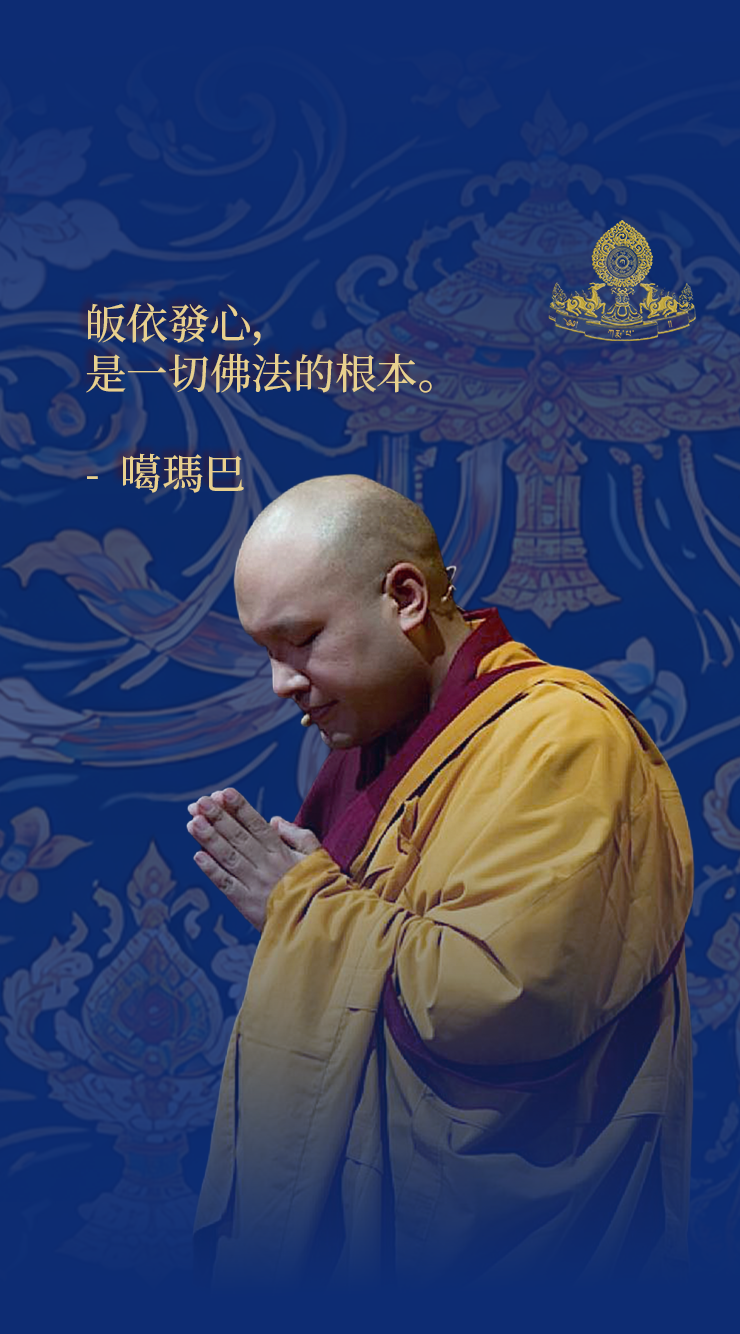
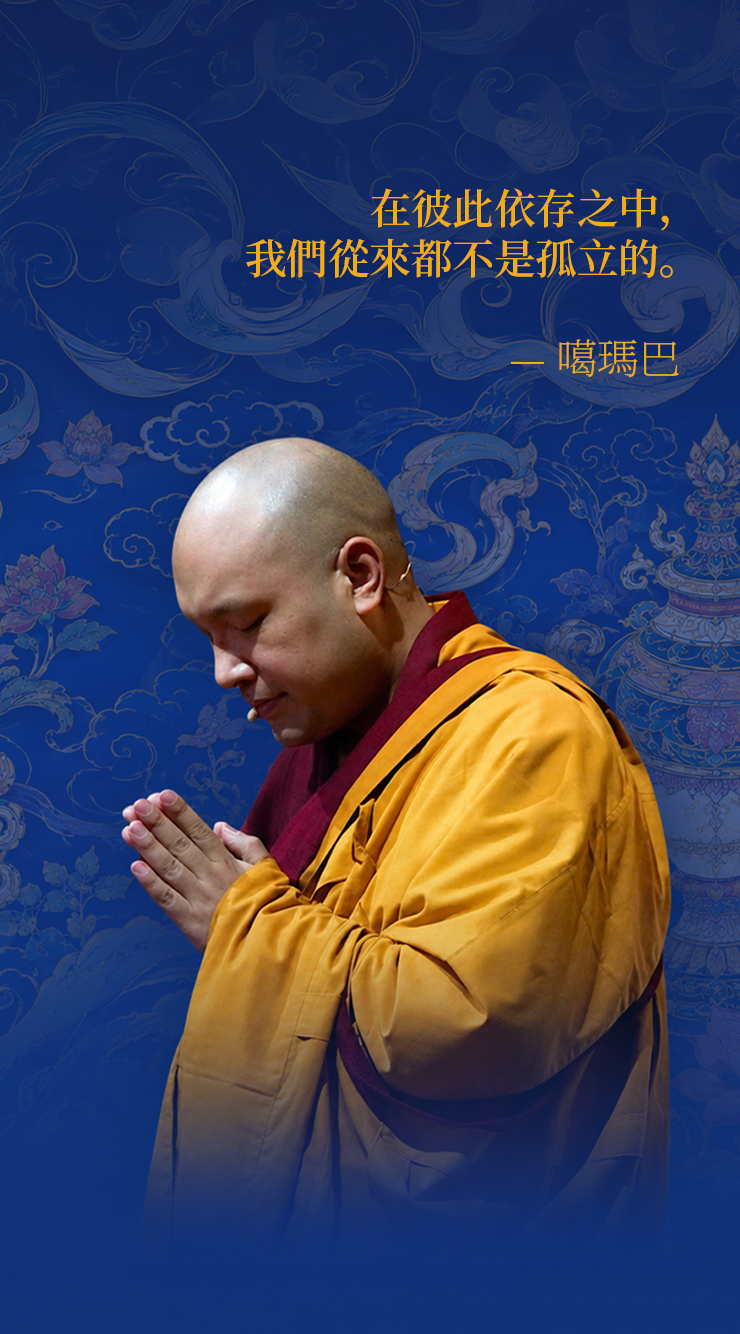
Expand mobile hero carousel

diff --git a/data/homepage.ts b/data/homepage.ts
@@ -275,10 +275,12 @@ export const hero = {
     },
     {
       image: "/hero/pc4.PNG?v=20260821-2",
+      mobileImage: "/hero/mb4.PNG?v=20260821-2",
       alt: "Homepage hero featuring a Karmapa teaching and the institute wordmark.",
     },
     {
       image: "/hero/pc5.PNG?v=20260821-2",
+      mobileImage: "/hero/mb5.PNG?v=20260821-2",
       alt: "Homepage hero featuring a Karmapa teaching and the institute wordmark.",
     },
   ] satisfies HeroSlide[],

diff --git a/components/Hero.tsx b/components/Hero.tsx
@@ -11,7 +11,7 @@ const OVERLAY_ALPHA = 0.82;
 const DARKEN_MULTIPLIER = 0.58;
 const SAMPLE_SIZE = 48;
 const DESKTOP_SLIDE_INTERVAL_MS = 5000;
-const MOBILE_SLIDE_INTERVAL_MS = 4500;
+const MOBILE_SLIDE_INTERVAL_MS = 4000;
 
 type RgbColor = {
   red: number;
